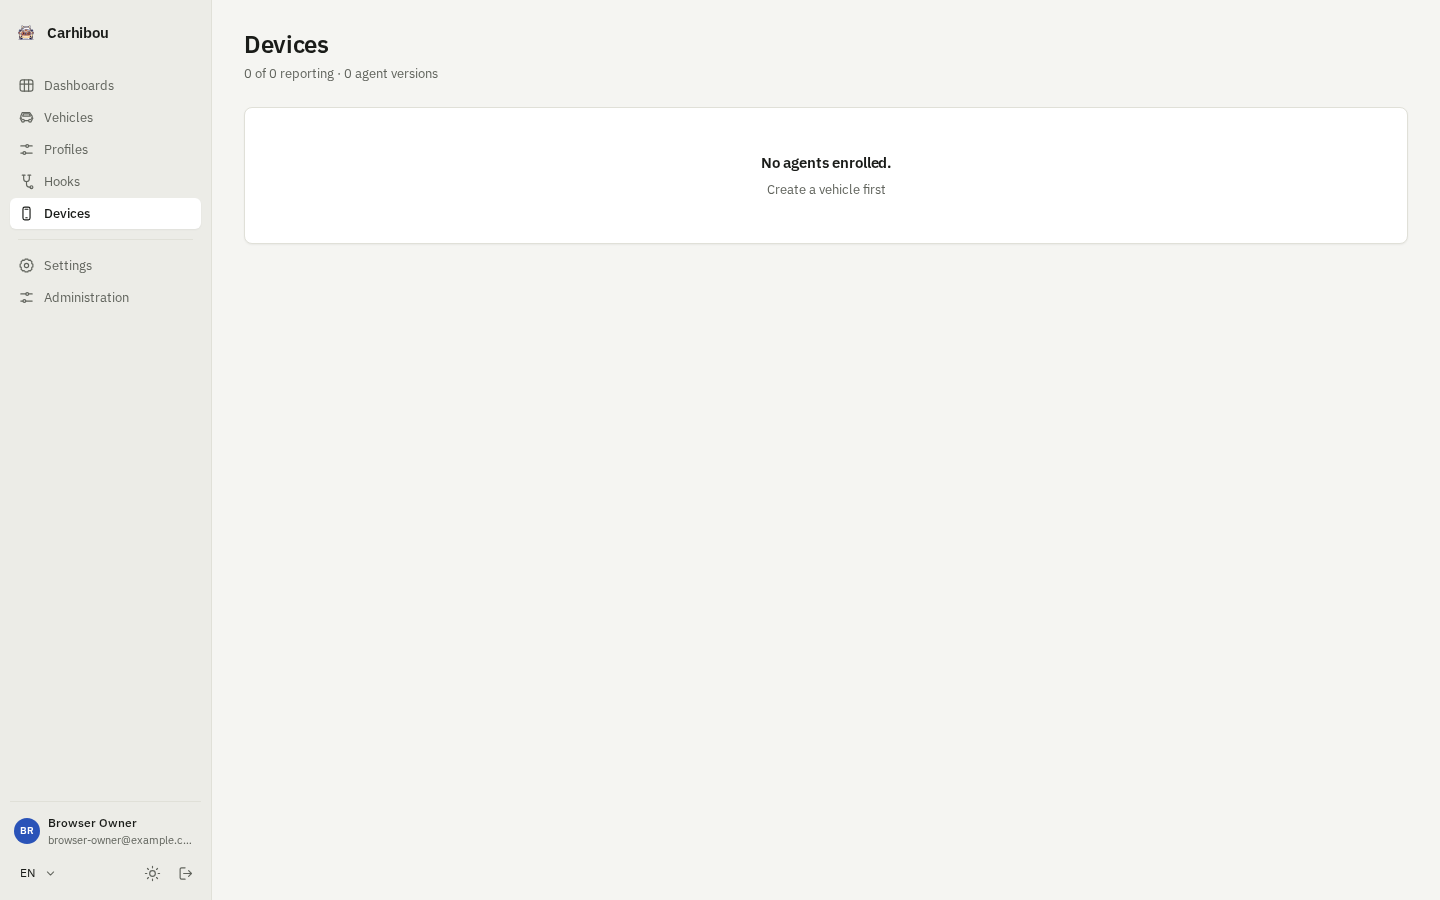
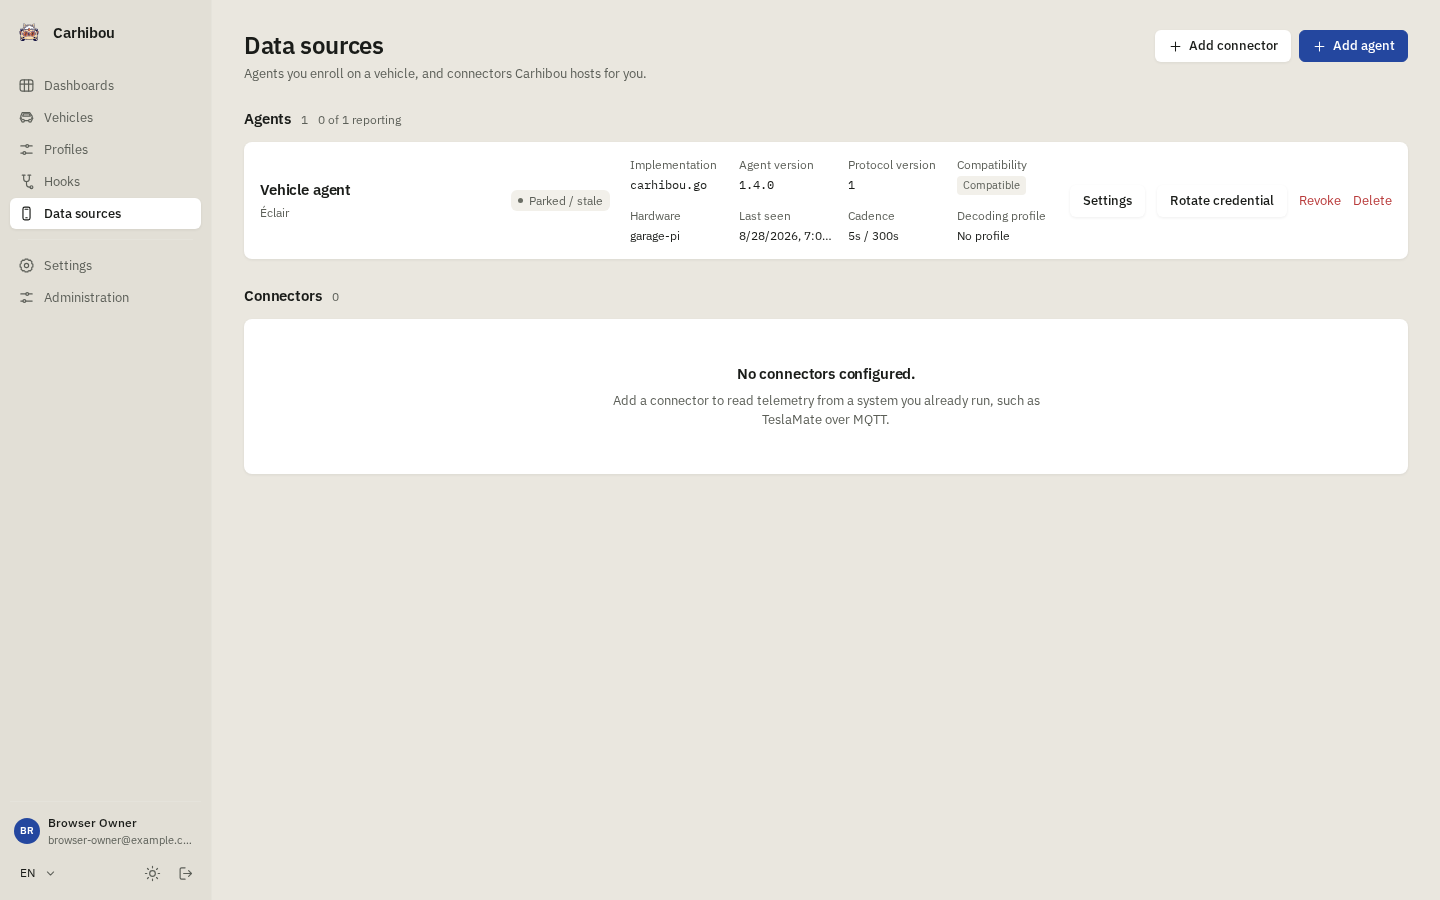
style: surface-contrast hierarchy over outlines, deeper accent blue
Panels separate by background tone step and soft elevation instead of
hairline borders, matched across both themes; borders remain only where
they communicate. The accent blue moves one step deeper in both themes.
Docs screenshots regenerated.

diff --git a/frontend/src/style.css b/frontend/src/style.css
@@ -22,28 +22,28 @@
   --font-value-sm: 22px;  /* a card's inline reading — weight 500, tabular */
   --font-value-xs: 15px;  /* a value inside a list row — weight 500, tabular */
 
-  --workspace: #f5f5f2;
+  --workspace: #eae7df;
   --text: #1a1c19;
   --panel: #ffffff;
-  --panel-2: #efefea;
-  --sidebar: #ecece7;
+  --panel-2: #f2f0ea;
+  --sidebar: #e2dfd6;
   --input: #ffffff;
-  --line: #e0e0d8;
-  --line-strong: #c6c6bc;
-  --muted: #61645d;
+  --line: #e5e3db;
+  --line-strong: #cfcdc3;
+  --muted: #5c5f58;
   --muted-2: #6b6e65;
   --scroll-thumb: rgba(26, 28, 25, .18);
   --scroll-thumb-hover: rgba(26, 28, 25, .32);
 
-  --primary: #2a53b8;
-  --primary-hover: #1f4093;
+  --primary: #24479f;
+  --primary-hover: #1b3679;
   --primary-contrast: #ffffff;
 
-  --accent: #2a53b8;
-  --accent-hover: #1f4093;
+  --accent: #24479f;
+  --accent-hover: #1b3679;
   --accent-contrast: #ffffff;
-  --accent-soft: #e7ecfa;
-  --accent-rgb: 42, 83, 184;
+  --accent-soft: #e3e9f7;
+  --accent-rgb: 36, 71, 159;
 
   --success: #1c7343;
   --success-soft: #e5f1e9;
@@ -52,7 +52,7 @@
   --danger: #b93b3b;
   --danger-soft: #f8e9e9;
 
-  --chart-1: #2a78d6;
+  --chart-1: #2563bd;
   --chart-2: #eb6834;
   --chart-3: #1baf7a;
   --chart-4: #4a3aa7;
@@ -60,36 +60,37 @@
   --radius-sm: 4px;
   --radius: 6px;
   --radius-lg: 8px;
-  /* Two elevations only: a resting surface is a hairline plus --shadow-soft,
-     anything floating above the page (menus, dialogs, toasts) uses --shadow. */
-  --shadow-soft: 0 1px 2px rgba(24, 28, 22, .05);
+  /* Two elevations only: a resting surface sits on a lighter tone than the page
+     and carries --shadow-soft, anything floating above the page (menus, dialogs,
+     toasts) uses --shadow. Structure comes from the tone step, not an outline. */
+  --shadow-soft: 0 1px 3px rgba(24, 28, 22, .07);
   --shadow: 0 14px 40px rgba(24, 28, 22, .16);
   --focus-ring: 0 0 0 3px var(--accent-soft);
 }
 
 [data-theme="dark"] {
-  --workspace: #121412;
+  --workspace: #0f110e;
   --text: #f1f3ef;
-  --panel: #191b18;
-  --panel-2: #232520;
-  --sidebar: #0e100e;
-  --input: #1c1e1a;
-  --line: #2c2f2a;
-  --line-strong: #464a42;
-  --muted: #9aa096;
+  --panel: #22251f;
+  --panel-2: #2c2f29;
+  --sidebar: #0a0b09;
+  --input: #1c1f1a;
+  --line: #303430;
+  --line-strong: #3d4139;
+  --muted: #a0a69c;
   --muted-2: #888f83;
   --scroll-thumb: rgba(241, 243, 239, .16);
   --scroll-thumb-hover: rgba(241, 243, 239, .3);
 
-  --primary: #8fb0ff;
-  --primary-hover: #adc4ff;
-  --primary-contrast: #14181f;
+  --primary: #7fa2f2;
+  --primary-hover: #9db9ff;
+  --primary-contrast: #10141b;
 
-  --accent: #8fb0ff;
-  --accent-hover: #adc4ff;
-  --accent-contrast: #14181f;
-  --accent-soft: rgba(143, 176, 255, .15);
-  --accent-rgb: 143, 176, 255;
+  --accent: #7fa2f2;
+  --accent-hover: #9db9ff;
+  --accent-contrast: #10141b;
+  --accent-soft: rgba(127, 162, 242, .16);
+  --accent-rgb: 127, 162, 242;
 
   --success: #56c98a;
   --success-soft: rgba(86, 201, 138, .14);
@@ -98,12 +99,12 @@
   --danger: #ef7b7b;
   --danger-soft: rgba(239, 123, 123, .14);
 
-  --chart-1: #3987e5;
+  --chart-1: #3b7fe0;
   --chart-2: #d95926;
   --chart-3: #199e70;
   --chart-4: #9085e9;
 
-  --shadow-soft: 0 1px 2px rgba(0, 0, 0, .3);
+  --shadow-soft: 0 1px 3px rgba(0, 0, 0, .34);
   --shadow: 0 16px 44px rgba(0, 0, 0, .5);
 }
 
@@ -206,7 +207,7 @@ a { color: inherit; }
 
 /* ---------- surfaces ---------- */
 
-.panel { color: var(--text); background: var(--panel); border: 1px solid var(--line); border-radius: var(--radius-lg); box-shadow: var(--shadow-soft); }
+.panel { color: var(--text); background: var(--panel); border-radius: var(--radius-lg); box-shadow: var(--shadow-soft); }
 
 /* ---------- controls ---------- */
 
@@ -218,8 +219,8 @@ a { color: inherit; }
   transition: background-color .12s, border-color .12s, color .12s;
 }
 .button:hover { background: var(--primary-hover); border-color: var(--primary-hover); }
-.button.secondary { color: var(--text); background: var(--panel); border-color: var(--line-strong); }
-.button.secondary:hover { background: var(--panel-2); border-color: var(--muted-2); }
+.button.secondary { color: var(--text); background: var(--panel); border-color: transparent; box-shadow: var(--shadow-soft); }
+.button.secondary:hover { background: var(--panel-2); border-color: transparent; }
 .button.ghost { color: var(--muted); background: transparent; border-color: transparent; }
 .button.ghost:hover { color: var(--text); background: var(--panel-2); border-color: transparent; }
 .button.danger { color: #fff; background: var(--danger); border-color: var(--danger); }
@@ -290,7 +291,7 @@ a { color: inherit; }
 
 .table-wrap { overflow: auto; }
 .table { width: 100%; border-collapse: collapse; font-size: var(--font-body); }
-.table th, .table td { padding: 10px 14px; border-bottom: 1px solid var(--line); text-align: left; }
+.table th, .table td { padding: 11px 14px; border-bottom: 1px solid var(--line); text-align: left; }
 .table th { color: var(--muted); font-size: var(--font-caption); font-weight: 500; }
 .table tbody tr:last-child td { border-bottom: 0; }
 

diff --git a/frontend/src/views/DataSourcesView.vue b/frontend/src/views/DataSourcesView.vue
@@ -453,10 +453,10 @@ onMounted(load)
 .enrollment-fields{display:grid;grid-template-columns:minmax(0,1fr);gap:14px}
 .enrollment-fields>.field-hint{margin:-6px 0 0}
 .enrollment-panel>.button{justify-self:start}
-.implementation-card{display:grid;grid-template-columns:minmax(0,1fr);gap:10px;padding:12px;background:var(--panel-2);border:1px solid var(--line);border-radius:var(--radius)}
+.implementation-card{display:grid;grid-template-columns:minmax(0,1fr);gap:10px;padding:12px;background:var(--panel-2);border-radius:var(--radius)}
 .implementation-heading{display:flex;align-items:center;gap:8px}
 .implementation-heading strong{font-size:var(--font-body);font-weight:600}
-.origin-tag{flex:none;padding:2px 6px;color:var(--muted);background:var(--panel);border:1px solid var(--line);border-radius:var(--radius-sm);font-size:var(--font-micro)}
+.origin-tag{flex:none;padding:2px 6px;color:var(--muted);background:var(--panel);border-radius:var(--radius-sm);font-size:var(--font-micro)}
 .implementation-facts{display:grid;grid-template-columns:repeat(3,minmax(0,1fr));gap:12px;margin:0}
 .implementation-facts>div{min-width:0}
 .implementation-facts dt{color:var(--muted);font-size:var(--font-caption)}
@@ -477,7 +477,7 @@ onMounted(load)
 .step-text{margin:0;font-size:var(--font-caption)}
 .step-value .step-text{color:var(--muted)}
 .step-link{margin:0;font-size:var(--font-caption)}
-.copy-surface{position:relative;min-width:0;display:flex;align-items:center;background:var(--panel-2);border:1px solid var(--line);border-radius:var(--radius)}
+.copy-surface{position:relative;min-width:0;display:flex;align-items:center;background:var(--panel-2);border-radius:var(--radius)}
 .copy-surface pre,.copy-surface code{min-width:0;display:block;flex:1;overflow:auto;margin:0;padding:11px 44px 11px 12px;color:var(--text);font-size:var(--font-caption);white-space:pre}
 .copy-surface pre:focus-visible,.copy-surface code:focus-visible{outline:none;box-shadow:var(--focus-ring)}
 .copy-button{position:absolute;top:6px;right:6px;width:30px;height:30px;display:grid;place-items:center;color:var(--muted);background:var(--panel);border:1px solid var(--line-strong);border-radius:var(--radius);cursor:pointer;transition:color .12s,border-color .12s}

diff --git a/frontend/src/widgets/VehicleMediaWidget.vue b/frontend/src/widgets/VehicleMediaWidget.vue
@@ -29,7 +29,7 @@ const vehicle = useDashboardVehicle(props.widget)
    keeps the text colour the photo caption uses. */
 .media-head h2{color:var(--text);font-size:var(--font-body);letter-spacing:0}
 .media-widget :deep(.vehicle-media){min-height:0;border:0;border-radius:0}
-.media-caption{position:absolute;right:10px;bottom:10px;left:10px;padding:7px 10px;background:color-mix(in srgb,var(--panel) 92%,transparent);border:1px solid var(--line);border-radius:var(--radius);backdrop-filter:blur(8px)}
+.media-caption{position:absolute;right:10px;bottom:10px;left:10px;padding:7px 10px;background:color-mix(in srgb,var(--panel) 92%,transparent);border-radius:var(--radius);box-shadow:var(--shadow-soft);backdrop-filter:blur(8px)}
 .media-caption strong,.media-caption small{display:block;overflow:hidden;text-overflow:ellipsis;white-space:nowrap}
 .media-caption strong{font-size:var(--font-body);font-weight:500}
 .media-caption small{margin-top:1px;color:var(--muted);font-size:var(--font-caption)}

diff --git a/frontend/src/views/DashboardsView.vue b/frontend/src/views/DashboardsView.vue
@@ -460,7 +460,7 @@ onBeforeUnmount(destroyGrid)
 .dashboard-tabs button:disabled{opacity:.45;cursor:not-allowed}
 .dashboard-tabs span{margin-left:5px;padding:1px 4px;color:var(--muted);background:var(--panel-2);border-radius:var(--radius-sm);font-size:10px;font-weight:400;text-transform:uppercase;letter-spacing:.04em}
 
-.dashboard-message{position:fixed;right:20px;bottom:20px;z-index:1200;margin:0;padding:9px 13px;font-size:var(--font-body);background:var(--panel);border:1px solid var(--line);border-radius:var(--radius);box-shadow:var(--shadow)}
+.dashboard-message{position:fixed;right:20px;bottom:20px;z-index:1200;margin:0;padding:9px 13px;font-size:var(--font-body);background:var(--panel);border-radius:var(--radius);box-shadow:var(--shadow)}
 
 .dashboard-editor-bar{display:grid;grid-template-columns:minmax(200px,300px) minmax(140px,1fr) auto;align-items:end;gap:14px;margin-bottom:12px;padding-bottom:12px;border-bottom:1px solid var(--line)}
 .dashboard-name{display:grid;gap:5px}

diff --git a/frontend/src/components/AppSelect.vue b/frontend/src/components/AppSelect.vue
@@ -252,7 +252,7 @@ onBeforeUnmount(() => {
 </style>
 
 <style>
-.app-select-menu{position:fixed;z-index:5000;min-height:0;display:flex;flex-direction:column;overflow:hidden;padding:4px;background:var(--panel);border:1px solid var(--line-strong);border-radius:var(--radius-lg);box-shadow:var(--shadow)}
+.app-select-menu{position:fixed;z-index:5000;min-height:0;display:flex;flex-direction:column;overflow:hidden;padding:4px;background:var(--panel);border:1px solid var(--line);border-radius:var(--radius-lg);box-shadow:var(--shadow)}
 .app-select-options{min-height:0;overflow:auto}
 .app-select-menu button{width:100%;min-height:32px;display:grid;grid-template-columns:minmax(0,1fr) 15px;align-items:center;gap:8px;padding:6px 8px;color:var(--text);background:transparent;border:0;border-radius:var(--radius);text-align:left;font-size:13px;cursor:pointer}
 .app-select-menu button span{overflow:hidden;text-overflow:ellipsis;white-space:nowrap}

diff --git a/frontend/src/components/CadenceFields.vue b/frontend/src/components/CadenceFields.vue
@@ -105,7 +105,7 @@ function apply(preset: Cadence): void {
 .preset strong{font-size:12px;font-weight:600}
 .preset small{color:var(--muted);font-size:11px;font-variant-numeric:tabular-nums}
 .cadence-states{display:grid;grid-template-columns:repeat(auto-fit,minmax(240px,1fr));gap:12px}
-.cadence-state{min-width:0;margin:0;padding:10px 12px 12px;border:1px solid var(--line);border-radius:var(--radius)}
+.cadence-state{min-width:0;margin:0;padding:10px 12px 12px;background:var(--panel-2);border-radius:var(--radius)}
 .cadence-state legend{padding:0 5px;color:var(--muted);font-size:12px;font-weight:600}
 .cadence-fields{display:grid;grid-template-columns:repeat(2,minmax(0,1fr));gap:12px}
 .cadence-estimate{display:flex;align-items:center;flex-wrap:wrap;gap:6px 10px;color:var(--muted);font-size:12px}

diff --git a/frontend/src/components/VehicleProfileEditor.vue b/frontend/src/components/VehicleProfileEditor.vue
@@ -206,7 +206,7 @@ watch(() => [props.open, props.profile?.id, props.clone] as const, ([open]) => {
 .signal-section>header{display:flex;align-items:flex-end;justify-content:space-between;gap:18px}
 .signal-section h3,.field-section h3{margin:0;font-size:13px;font-weight:600}
 .signal-section p,.field-section header p{margin:3px 0 0;color:var(--muted);font-size:12px;line-height:1.45}
-.signal-rows{overflow:hidden;border:1px solid var(--line);border-radius:var(--radius-lg)}
+.signal-rows{overflow:hidden;background:var(--panel-2);border-radius:var(--radius-lg)}
 .signal-row{min-height:52px;display:flex;align-items:center;gap:12px;padding:10px 12px;border-bottom:1px solid var(--line)}
 .signal-row:last-child{border-bottom:0}
 .signal-row>div{min-width:0;flex:1}

diff --git a/frontend/src/views/LoginView.vue b/frontend/src/views/LoginView.vue
@@ -106,7 +106,7 @@ async function submit() {
 .login-brand strong{font-size:var(--font-card-title);font-weight:600;letter-spacing:-.01em}
 .login-brand small{margin-top:2px;color:var(--muted);font-size:var(--font-caption)}
 
-.login-form{display:grid;gap:14px;padding:24px;background:var(--panel);border:1px solid var(--line);border-radius:var(--radius-lg);box-shadow:var(--shadow-soft)}
+.login-form{display:grid;gap:14px;padding:24px;background:var(--panel);border-radius:var(--radius-lg);box-shadow:var(--shadow-soft)}
 .login-form h1{margin:0;font-size:var(--font-subtitle);font-weight:600;letter-spacing:-.01em}
 .login-hint{margin:-9px 0 3px;color:var(--muted);font-size:var(--font-body)}
 .login-button{width:100%;height:36px;margin-top:4px}
